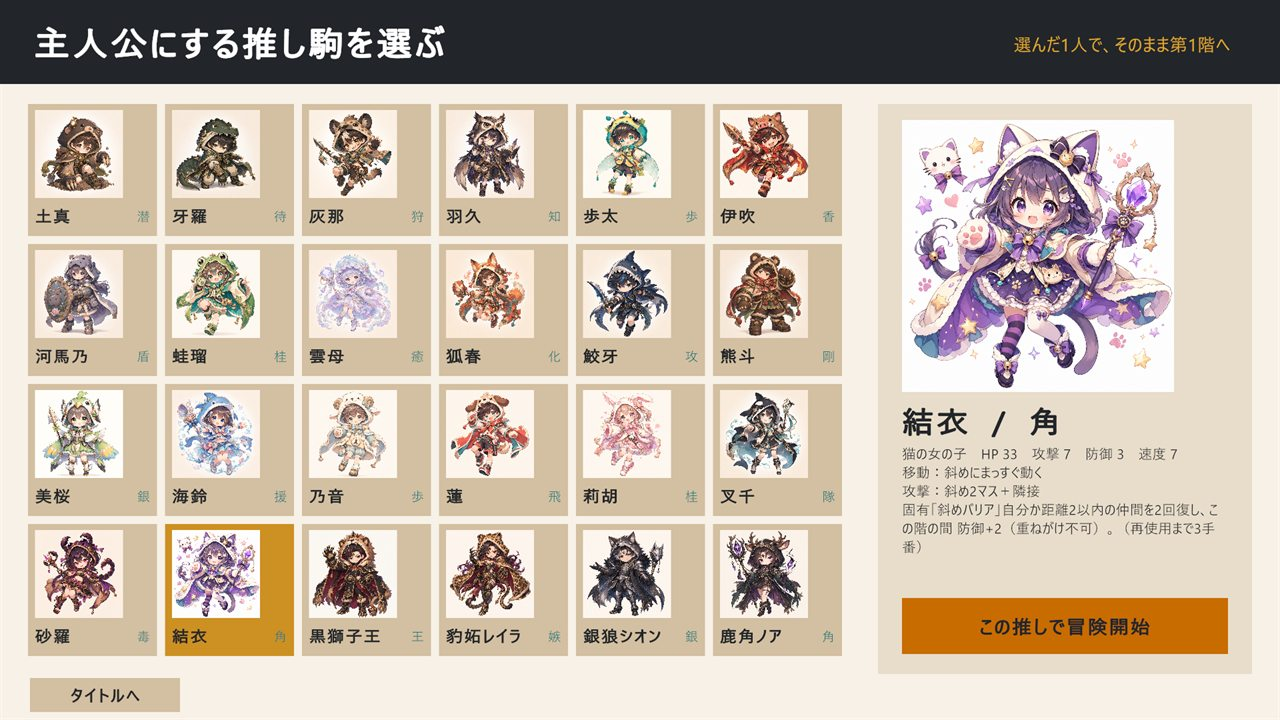
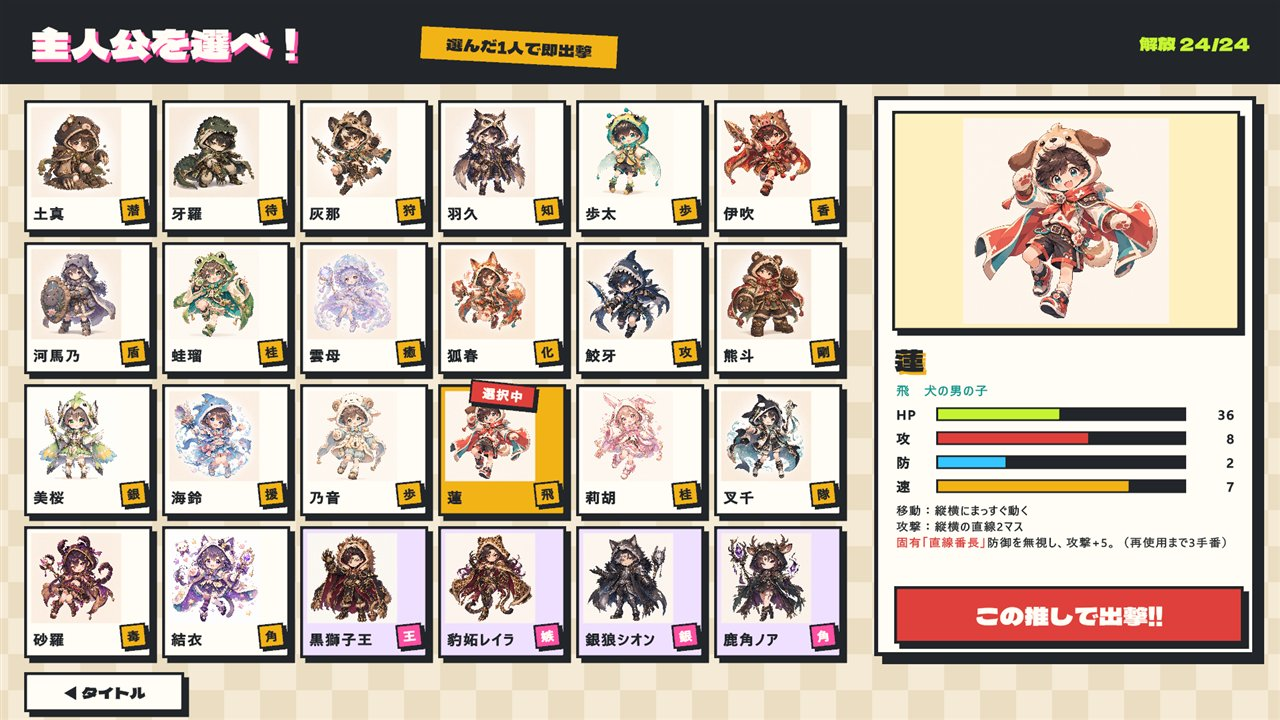
試験版 v1.0-trial.2 の配布に合わせて紹介ページを更新
ダウンロードリンクとバージョン表記を v1.0-trial.2 に変更し、
スクリーンショットを改修後の画面（スコア・コンボ・制限時間・新UI）に差し替え。
動作環境欄に BGM・制限時間・記録を追記し、更新情報に試験版2の公開を追加。

diff --git a/index.html b/index.html
@@ -68,14 +68,14 @@
               <li class="chip">将棋風の動き</li>
               <li class="chip chip-red">一発勝負</li>
             </ul>
-            <p class="hero-kicker">推し駒battle ／ v1.0-trial.1</p>
+            <p class="hero-kicker">推し駒battle ／ v1.0-trial.2</p>
             <h1 class="hero-title">
               <span class="ht-line">推しが倒れたら、</span>
               <span class="ht-line ht-big"><mark>即終了。</mark></span>
             </h1>
             <p class="hero-lead">動物コスプレの<b>推し駒1人</b>を主人公に、毎回形が変わる<b>6×6の盤面</b>を<b>全10階</b>。将棋風の動きで「鍵」の番人を倒し、主人公を出口へ。</p>
             <div class="hero-cta">
-              <a class="btn btn-main" href="#download"><span class="btn-sub">Windows 10・11 ／ 約101MB</span>無料でダウンロード</a>
+              <a class="btn btn-main" href="#download"><span class="btn-sub">Windows 10・11 ／ 約103MB</span>無料でダウンロード</a>
               <a class="btn btn-ghost" href="#rush">3秒で遊び方</a>
             </div>
             <ul class="stat-row" aria-label="基本データ">
@@ -94,7 +94,7 @@
                 <span class="tv-floor">第1 / 10階　目標：「鍵」の番人を倒す</span>
               </div>
               <div class="tv-screen">
-                <img src="assets/screen-board.jpg" alt="盤面の画面。青緑のマスが移動先、右側に行動ボタンと冒険ログ" width="1280" height="720" />
+                <img src="assets/screen-board.jpg" alt="盤面の画面。青いマスが移動先、上部にスコアとコンボ、下部に制限時間バー" width="1280" height="720" />
                 <p class="telop" data-telop aria-live="off">
                   <span class="telop-item is-on"><b class="t-teal">青緑</b>のマスへ移動</span>
                   <span class="telop-item"><b class="t-red">赤い敵</b>はクリックで攻撃</span>
@@ -583,8 +583,8 @@
         </header>
         <ul class="screens">
           <li><figure><img src="assets/screen-select.jpg" alt="主人公選択の画面。移動・攻撃範囲・固有スキルの説明が表示される" width="1280" height="720" loading="lazy" /><figcaption><b>選ぶ</b>主人公選択で、移動・攻撃範囲・固有スキルを確認</figcaption></figure></li>
-          <li><figure><img src="assets/screen-board.jpg" alt="盤面の画面。青緑のマスが移動先、右側に行動ボタンと冒険ログ" width="1280" height="720" loading="lazy" /><figcaption><b>戦う</b>青緑へ移動、赤い敵はクリックで攻撃</figcaption></figure></li>
-          <li><figure><img src="assets/screen-inspect.jpg" alt="敵にマウスを乗せると、能力と攻撃が届く範囲が表示される" width="1280" height="720" loading="lazy" /><figcaption><b>読む</b>敵に乗せると、能力と次に届く範囲が出る</figcaption></figure></li>
+          <li><figure><img src="assets/screen-board.jpg" alt="盤面の画面。青いマスが移動先、上部にスコアとコンボ、下部に制限時間バー" width="1280" height="720" loading="lazy" /><figcaption><b>戦う</b>青へ移動、赤い敵はクリックで即攻撃</figcaption></figure></li>
+          <li><figure><img src="assets/screen-inspect.jpg" alt="敵にマウスを乗せると、駒の横に能力と攻撃が届く範囲が表示される" width="1280" height="720" loading="lazy" /><figcaption><b>読む</b>敵に乗せると、能力と次に届く範囲が出る</figcaption></figure></li>
           <li><figure><img src="assets/screen-blessing.jpg" alt="階層突破後の祝福選択画面" width="1280" height="720" loading="lazy" /><figcaption><b>盛る</b>突破後は祝福を3つから1つ</figcaption></figure></li>
         </ul>
       </section>
@@ -595,8 +595,8 @@
           <div class="dl-main">
             <p class="dl-badge">FREE TRIAL</p>
             <h2>今すぐ無料で遊ぶ</h2>
-            <p class="dl-ver">試験版 v1.0-trial.1 ／ Windows 10・11（64bit）</p>
-            <a class="btn btn-main btn-xl" href="https://github.com/donadonaa24-cyber/oshikoma/releases/download/v1.0-trial.1/OshigomaBattle-trial1-win64.zip"><span class="btn-sub">zip・約101MB</span>Windows版をダウンロード</a>
+            <p class="dl-ver">試験版 v1.0-trial.2 ／ Windows 10・11（64bit）</p>
+            <a class="btn btn-main btn-xl" href="https://github.com/donadonaa24-cyber/oshikoma/releases/download/v1.0-trial.2/OshigomaBattle-trial2-win64.zip"><span class="btn-sub">zip・約103MB</span>Windows版をダウンロード</a>
             <ol class="dl-steps">
               <li><b>展開</b>zipを好きな場所に展開（すべて展開）</li>
               <li><b>起動</b>フォルダ内の OshigomaBattle.exe を起動</li>
@@ -609,7 +609,9 @@
             <div><dt>1回の冒険</dt><dd>約30分を目安に調整中</dd></div>
             <div><dt>価格</dt><dd>無料（試験版）</dd></div>
             <div><dt>セーブ</dt><dd>自動保存。「中断」して再開できる</dd></div>
-            <div><dt>音</dt><dd>効果音あり（ON／OFF）</dd></div>
+            <div><dt>音</dt><dd>BGM・効果音あり（それぞれON／OFF）</dd></div>
+            <div><dt>制限時間</dt><dd>1手番15秒（なし／30秒／8秒にも変更可）</dd></div>
+            <div><dt>記録</dt><dd>スコア・コンボ・階層ランク・ハイスコア</dd></div>
             <div><dt>報告</dt><dd><a href="https://github.com/donadonaa24-cyber/oshikoma/issues">GitHubのIssues</a>／<a href="https://github.com/donadonaa24-cyber/oshikoma/releases">リリース一覧</a></dd></div>
           </dl>
         </div>
@@ -640,6 +642,7 @@
         </header>
         <ul class="news">
           <li><time datetime="2026-10-01">2026.10.01</time><span class="news-tag">サイト</span>紹介ページをリニューアル。推し駒図鑑（全24人）、駒の動き、祝福一覧を追加。</li>
+          <li><time datetime="2026-10-02">2026.10.02</time><span class="news-tag news-tag-red">配信</span>試験版 v1.0-trial.2 を無料公開。制限時間・スコア／コンボ・階層ランク・BGMを追加し、画面と演出を一新。</li>
           <li><time datetime="2026-10-01">2026.10.01</time><span class="news-tag news-tag-red">配信</span>試験版 v1.0-trial.1 を無料公開。</li>
           <li><time datetime="2026-10-01">2026.10.01</time><span class="news-tag">開発</span>敵の攻撃範囲表示、成り、敵の固有スキル、結果画面などを追加し、難易度を調整。</li>
         </ul>
